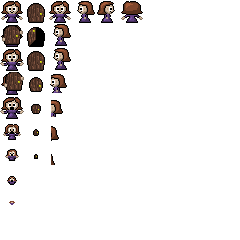
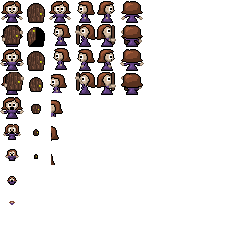
More directional sprites

Changed region(s): [[0.2917, 0.0875, 0.6125, 0.4083]]

diff --git a/levels/Objects.tsx b/levels/Objects.tsx
@@ -51,6 +51,24 @@
    <property name="frame" value="1"/>
   </properties>
  </tile>
+ <tile id="13">
+  <properties>
+   <property name="name" value="player"/>
+   <property name="state" value="left-holding-door"/>
+  </properties>
+ </tile>
+ <tile id="14">
+  <properties>
+   <property name="name" value="player"/>
+   <property name="state" value="right-holding-door"/>
+  </properties>
+ </tile>
+ <tile id="15">
+  <properties>
+   <property name="name" value="player"/>
+   <property name="state" value="up-holding-door"/>
+  </properties>
+ </tile>
  <tile id="11">
   <properties>
    <property name="name" value="door"/>
@@ -71,6 +89,24 @@
    <property name="frame" value="2"/>
   </properties>
  </tile>
+ <tile id="23">
+  <properties>
+   <property name="name" value="player"/>
+   <property name="state" value="left-awaiting-input"/>
+  </properties>
+ </tile>
+ <tile id="24">
+  <properties>
+   <property name="name" value="player"/>
+   <property name="state" value="right-awaiting-input"/>
+  </properties>
+ </tile>
+ <tile id="25">
+  <properties>
+   <property name="name" value="player"/>
+   <property name="state" value="up-awaiting-input"/>
+  </properties>
+ </tile>
  <tile id="30">
   <properties>
    <property name="name" value="player"/>
@@ -83,6 +119,24 @@
    <property name="state" value="descending"/>
    <property name="frame-delay" value="10"/>
    <property name="frame" value="3"/>
+  </properties>
+ </tile>
+ <tile id="33">
+  <properties>
+   <property name="name" value="player"/>
+   <property name="state" value="left-awaiting-throw"/>
+  </properties>
+ </tile>
+ <tile id="34">
+  <properties>
+   <property name="name" value="player"/>
+   <property name="state" value="right-awaiting-throw"/>
+  </properties>
+ </tile>
+ <tile id="35">
+  <properties>
+   <property name="name" value="player"/>
+   <property name="state" value="up-awaiting-throw"/>
   </properties>
  </tile>
  <tile id="40">

diff --git a/src/game.py b/src/game.py
@@ -229,10 +229,10 @@ class Game:
             except KeyError:
                 pass
             else:
+                self.player.direction = DIR_MAP[e.key]
                 if newloc != self.player.location:
                     if self.can_move_to(self.player, newloc):
                         self.player.location = newloc
-                        self.player.direction = DIR_MAP[e.key]
                         self.sound.step()
                         took_turn = True
                     else:
